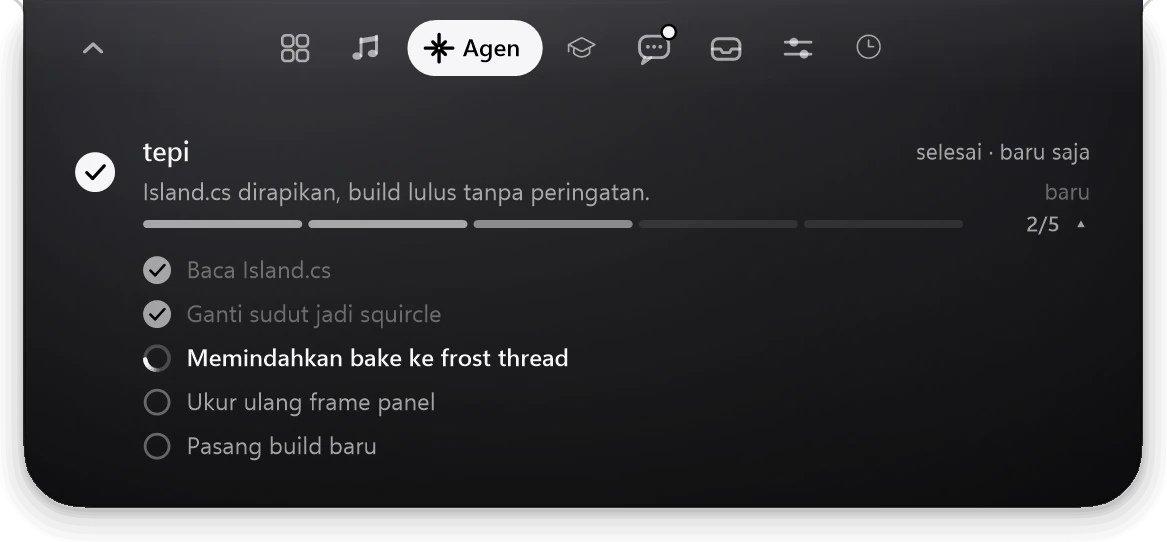
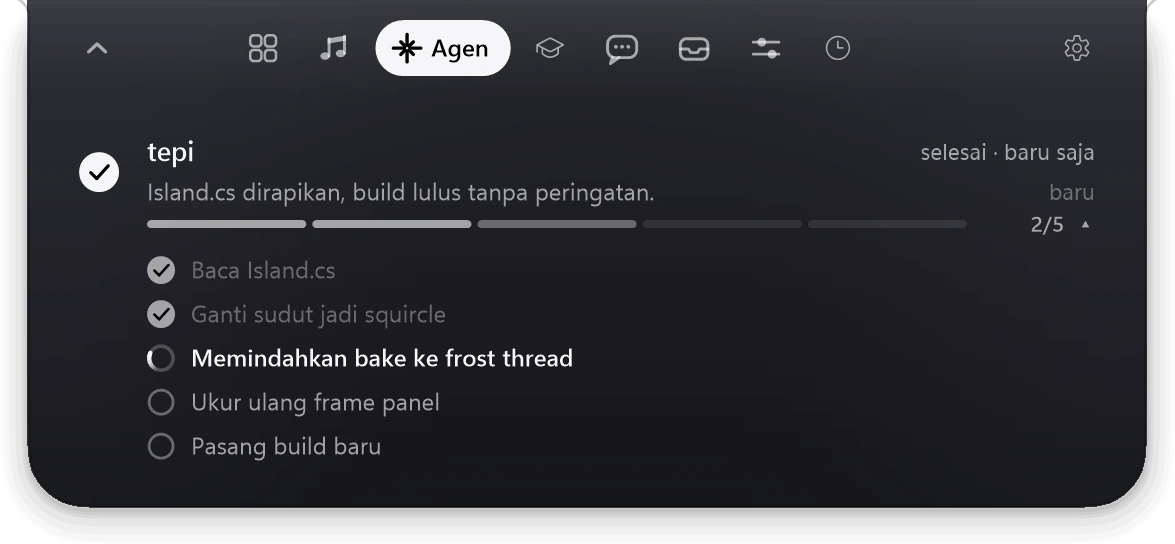
Panel di prototipe ikut 2.1: tombol pengaturan dan tile Mikrofon

diff --git a/assets/js/island.js b/assets/js/island.js
@@ -29,9 +29,9 @@
     drive: { img: "drive", iw: 427, ox: 13.5, oy: 0, w: 400, h: 64, r: 26, s: 1, tone: "pill" },
     approve: { img: "approve", iw: 547.5, ox: 13.5, oy: 0, w: 520, h: 237.5, r: 32, s: 0, tone: "light" }
   };
-  var PANELS = [["ringkasan", 352], ["musik", 340], ["agen", 254], ["kuliah", 266], ["pesan", 268], ["rak", 288], ["kontrol", 366], ["pengingat", 262]];
+  var PANELS = [["ringkasan", 352], ["musik", 340], ["agen", 254], ["kuliah", 266], ["pesan", 268], ["rak", 302], ["kontrol", 366], ["pengingat", 262]];
   PANELS.forEach(function (p) {
-    STATES["p-" + p[0]] = { img: "p-" + p[0], iw: 583.5, ox: 11.5, oy: 0, w: 560, h: p[1], r: 32, s: 0, tone: "panel", split: true };
+    STATES["p-" + p[0]] = { img: "p-" + p[0], iw: 587.5, ox: 13.5, oy: 0, w: 560, h: p[1], r: 32, s: 0, tone: "panel", split: true };
   });
 
   function src(name) { return "assets/img/" + name + ".webp"; }
